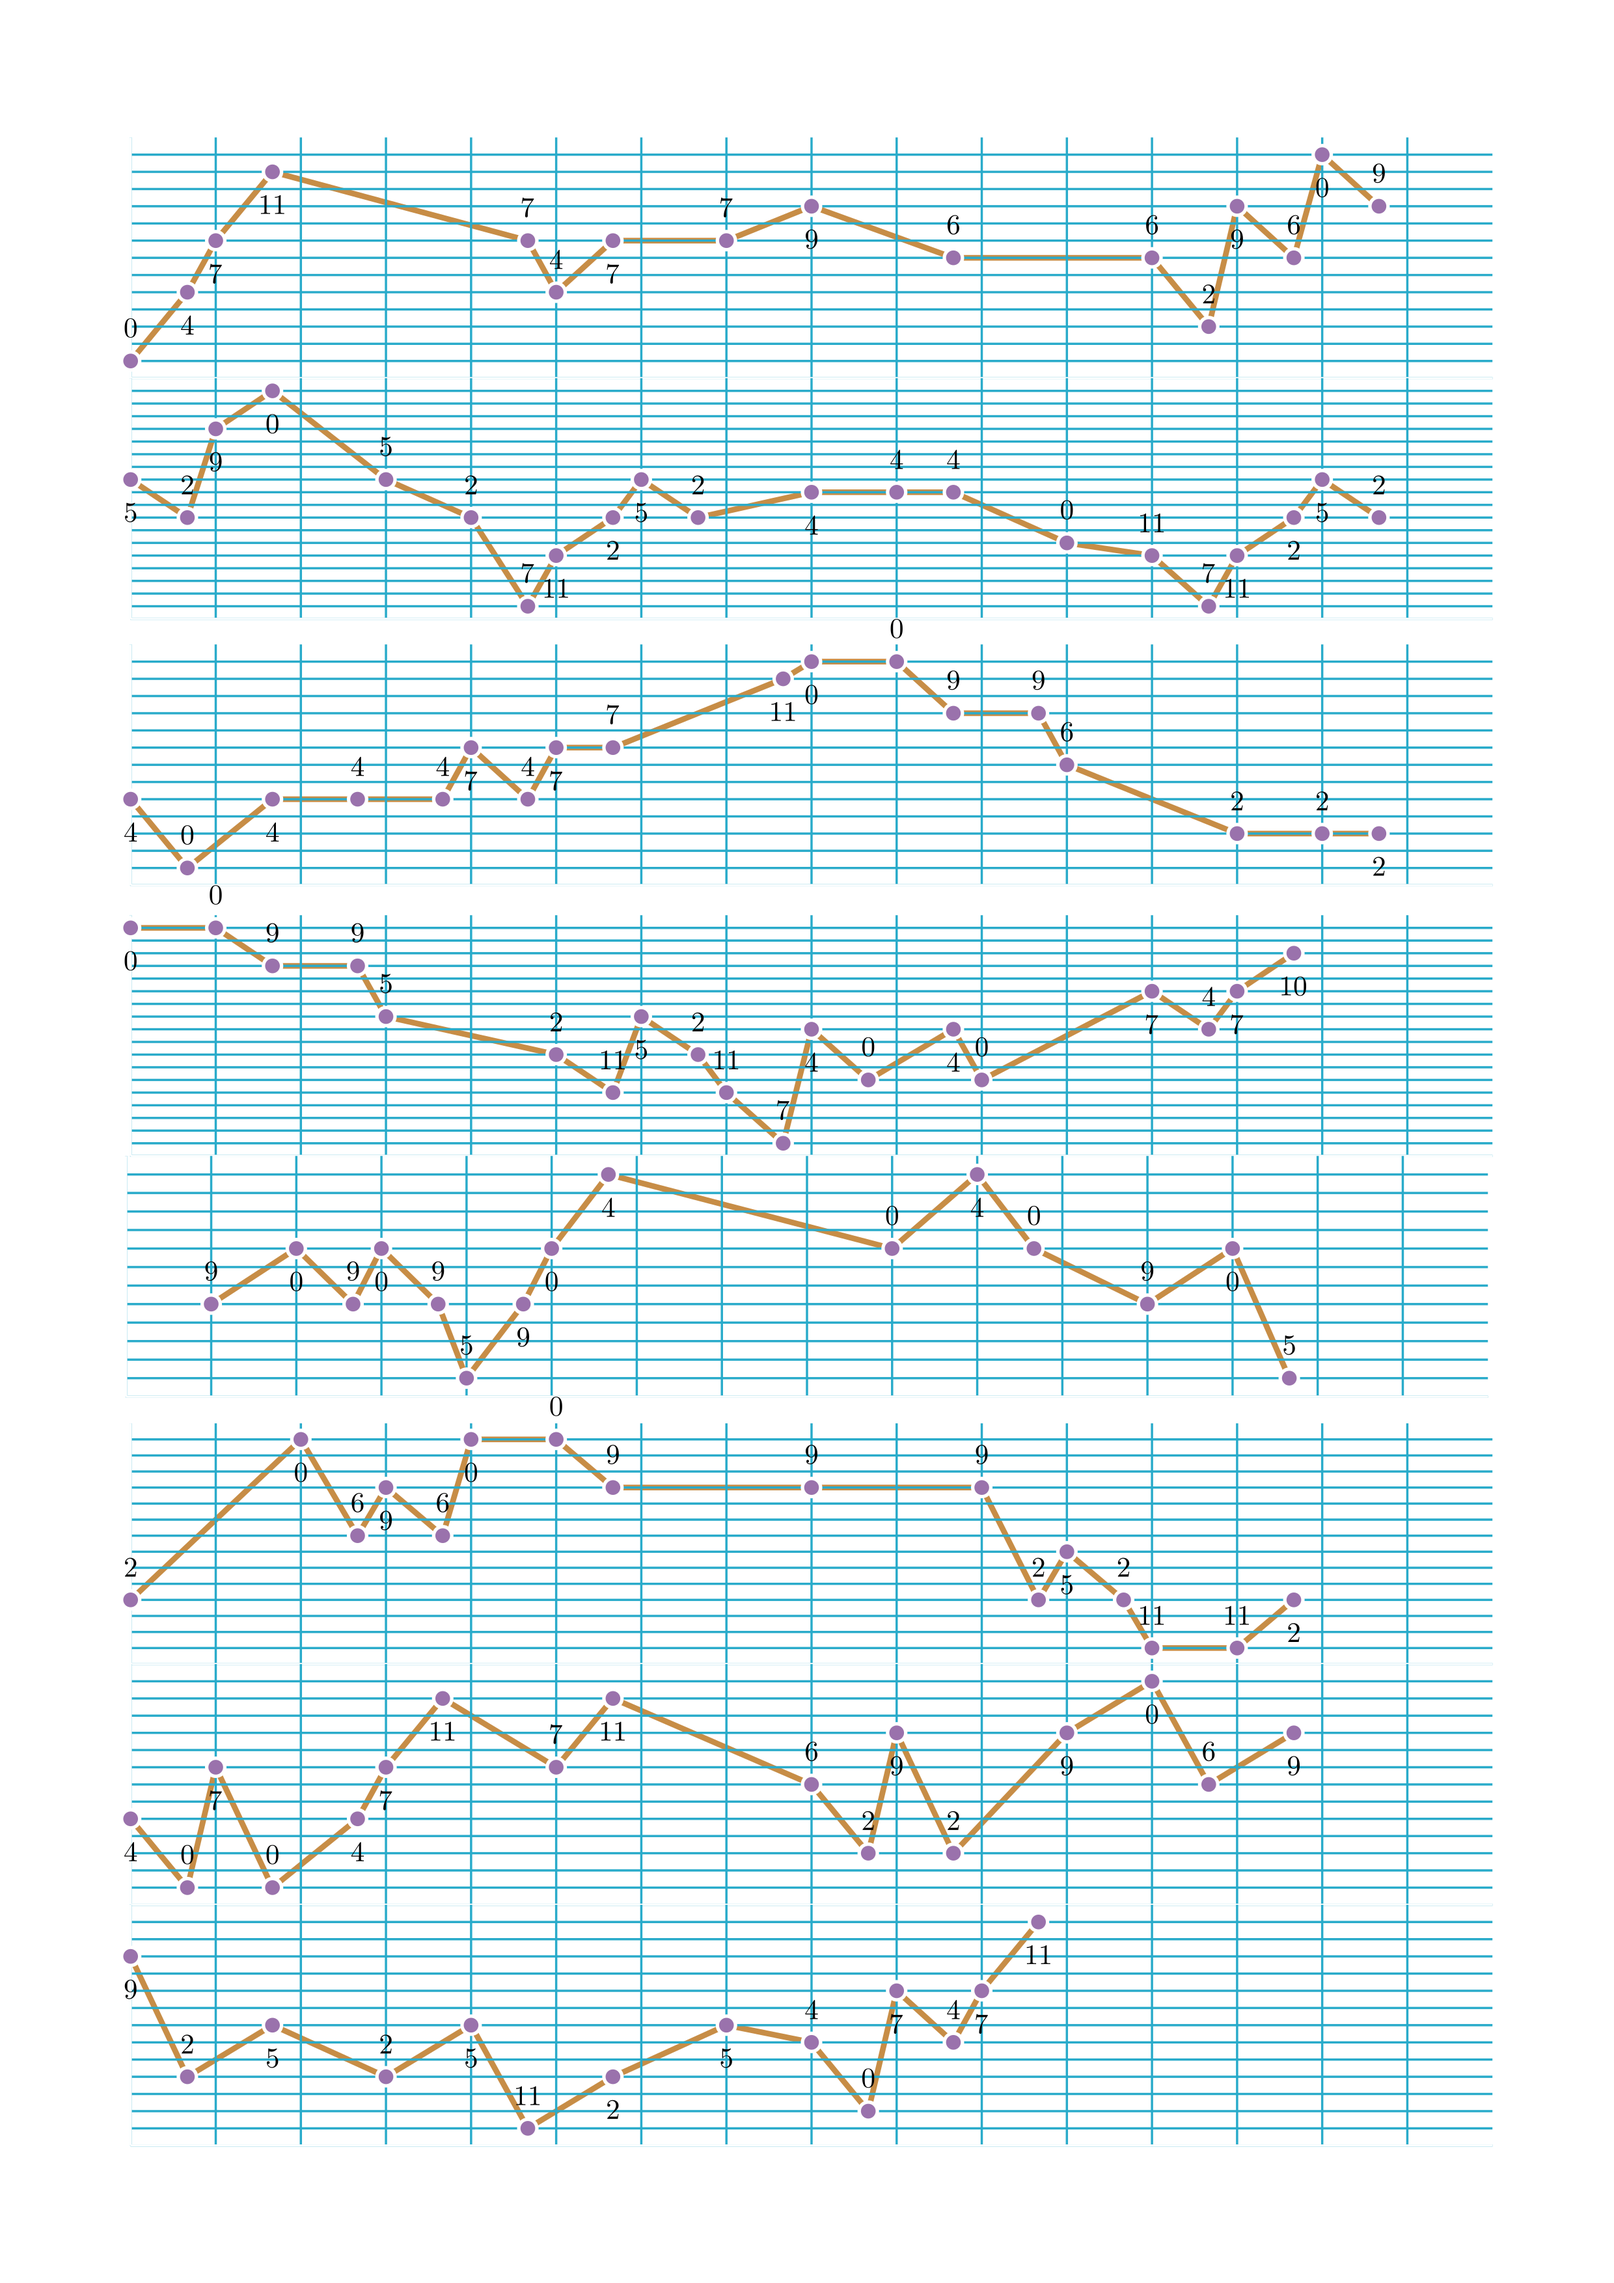
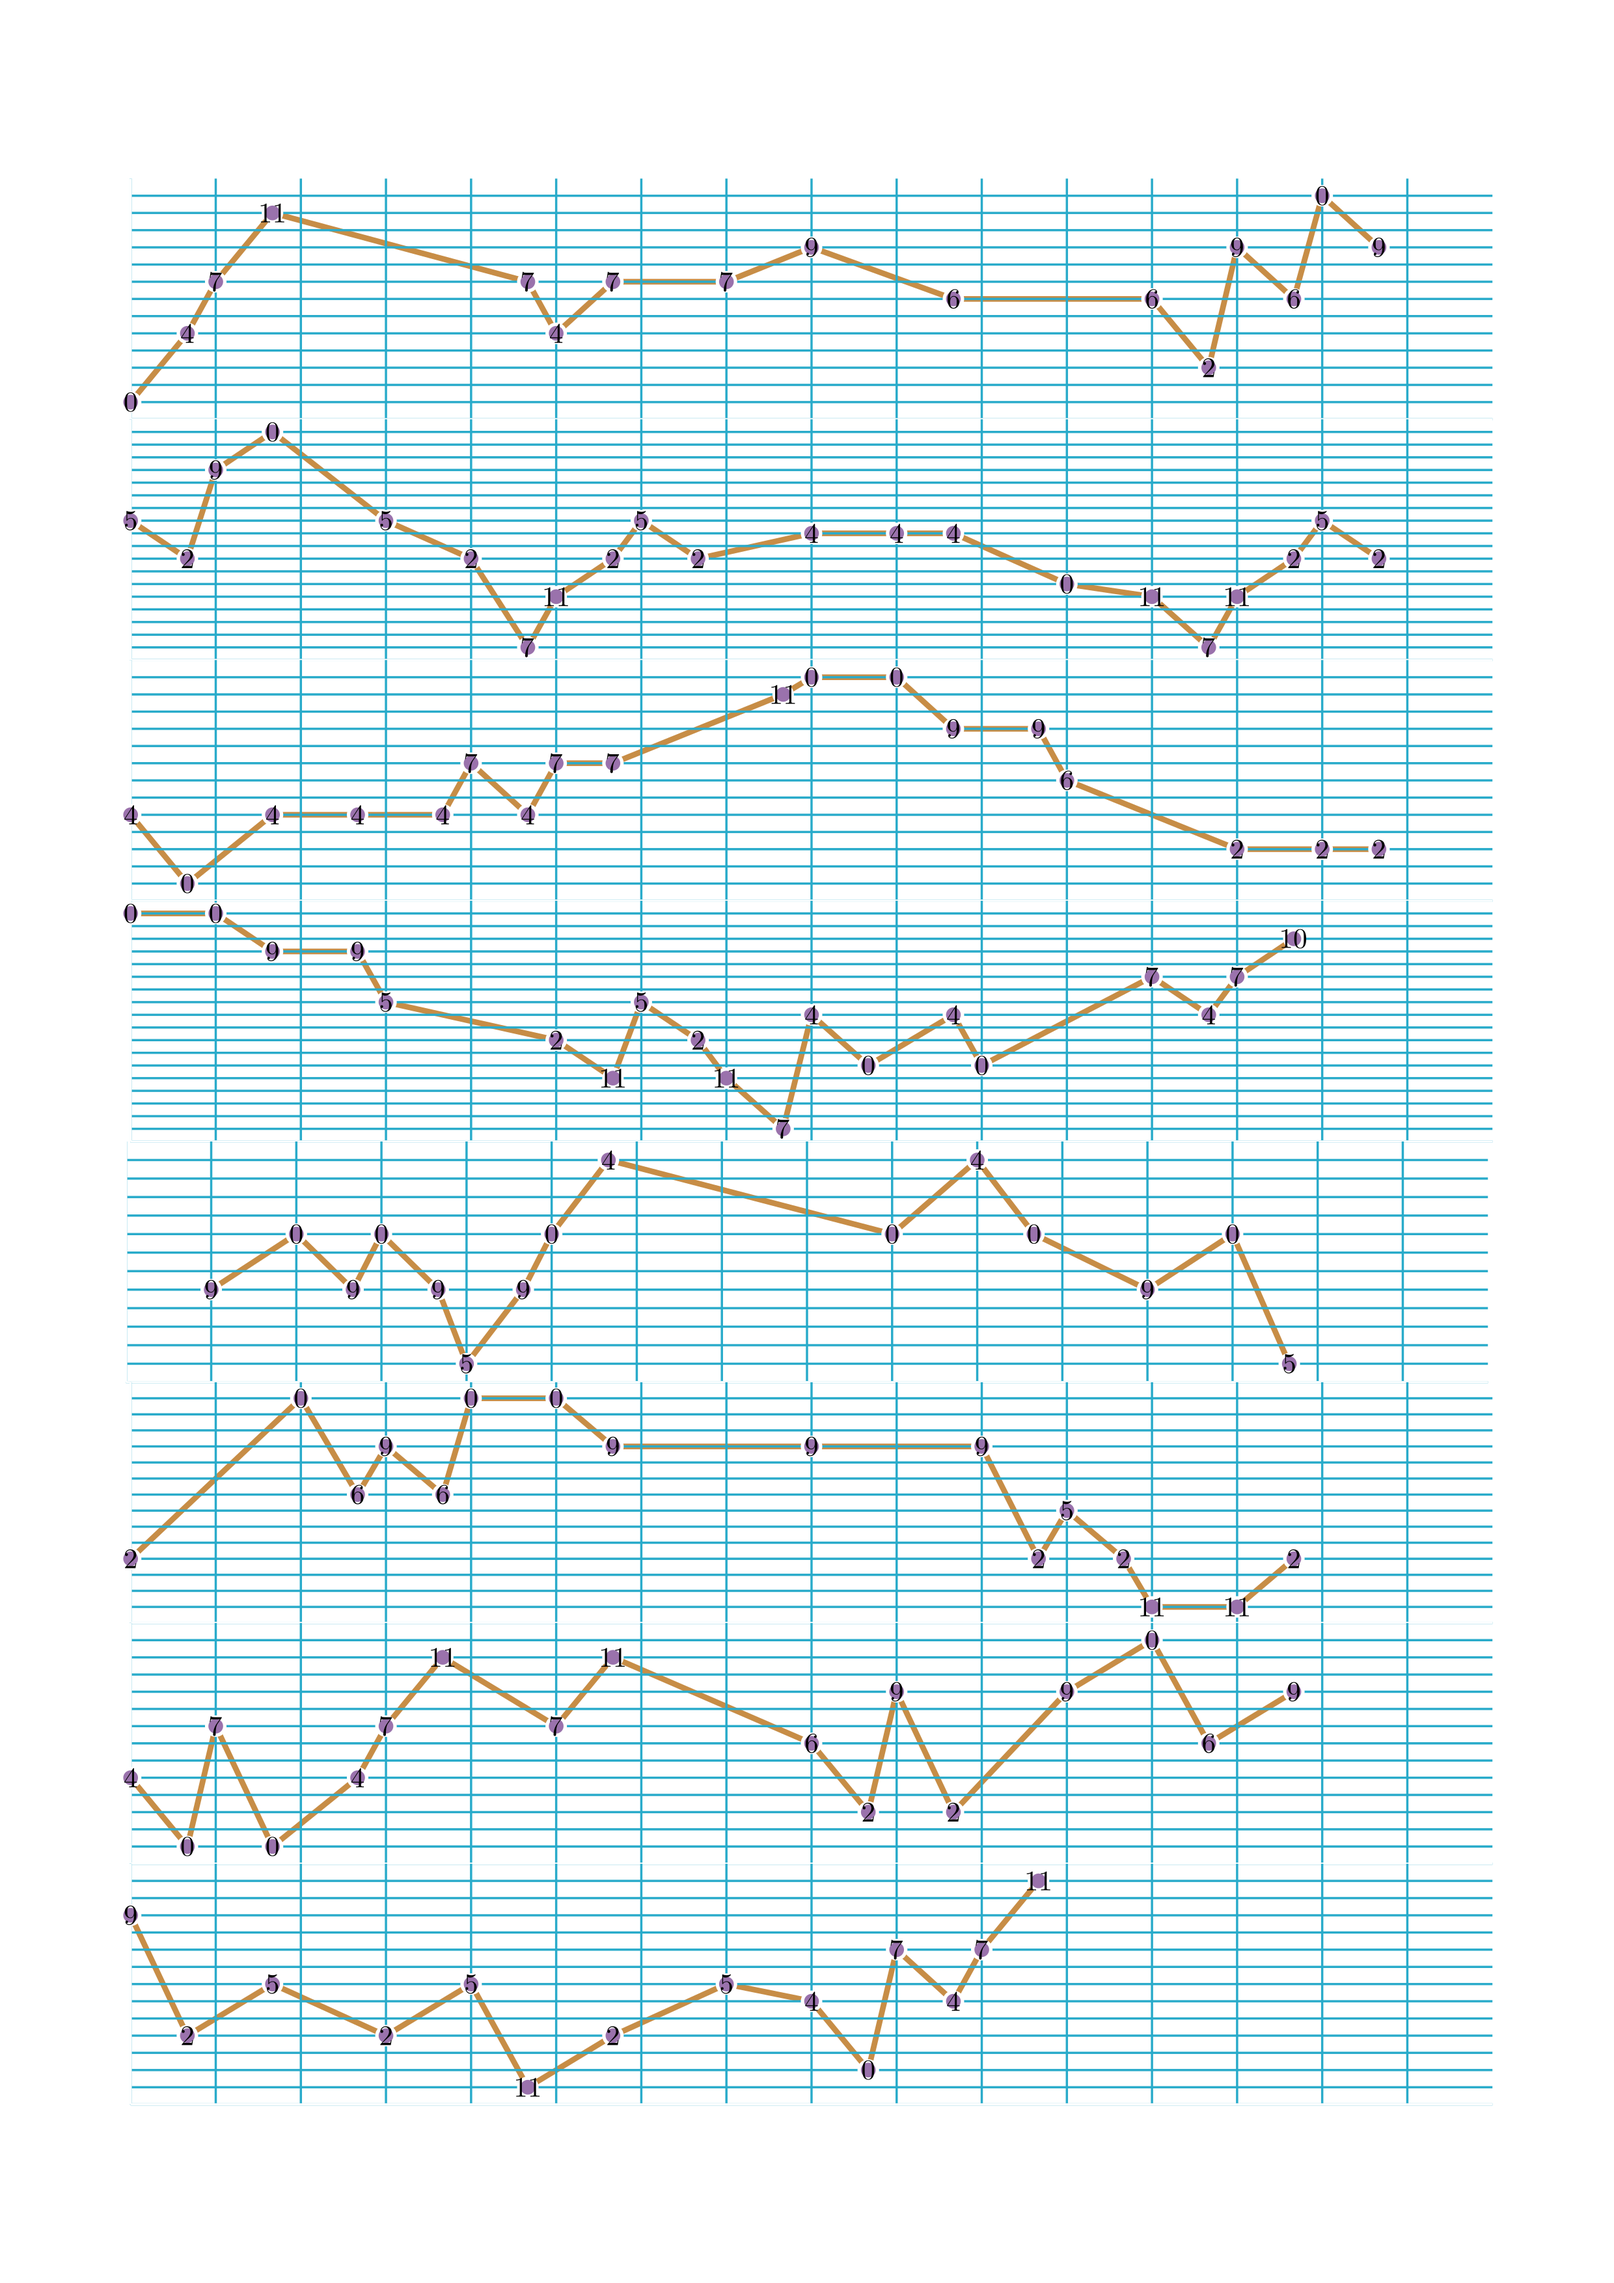
create melody sheet

Changed region(s): [[0.0621, 0.0621, 0.9315, 0.9322]]

diff --git a/line_graph.py b/line_graph.py
@@ -72,7 +72,8 @@ def create_line_graph(x_values, y_values, x_start, x_end, width, height ):
         annotate_offset.append(0)
         label = Tex(str(y_values[i] % 12), color=BLACK).scale(.5)
         print(annotate_offset)
-        labels.add(label.next_to(line_graph["vertex_dots"][i], np.array(annotate_offset)))
+        #labels.add(label.next_to(line_graph["vertex_dots"][i], np.array(annotate_offset)))
+        labels.add(label.move_to(line_graph["vertex_dots"][i]))
 
 
     return VGroup(plane, line_graph, labels)
